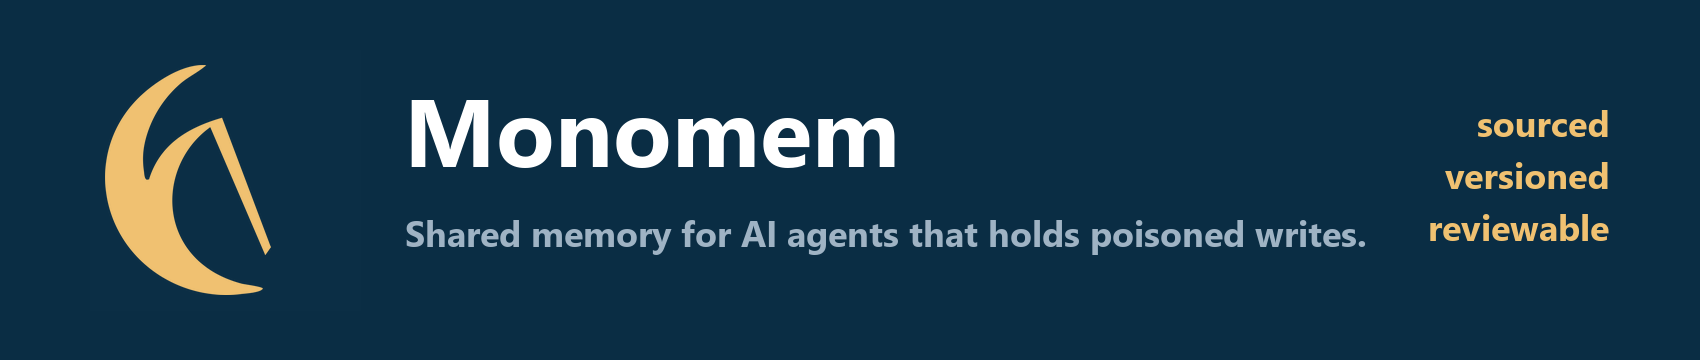
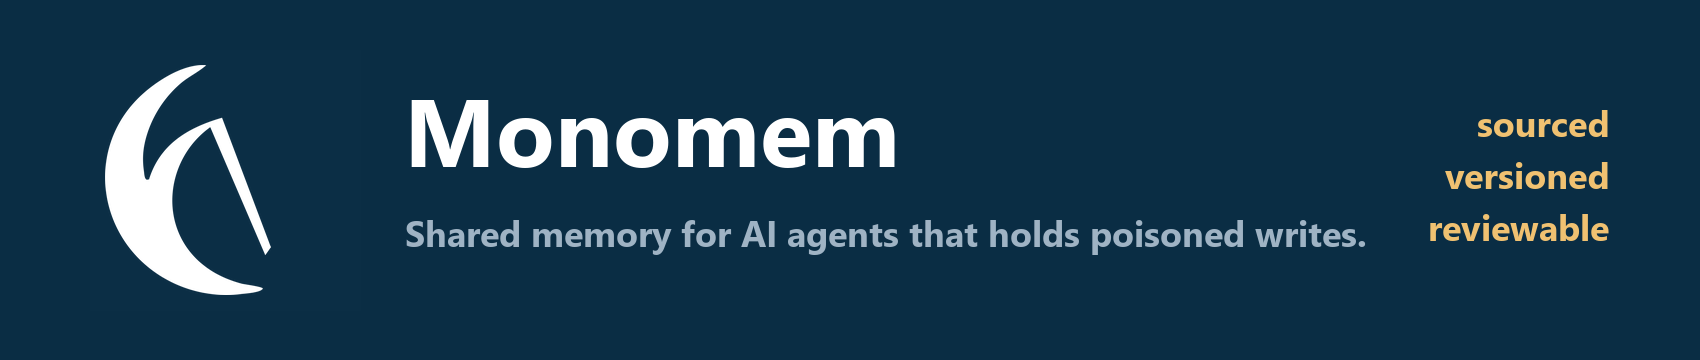
fix(brand): Calas mark in white on dark backgrounds, per the brand SOP

Changed region(s): [[0.0624, 0.1833, 0.1559, 0.825]]

diff --git a/src/dashboard.ts b/src/dashboard.ts
@@ -750,6 +750,6 @@ if(tok()){ show(true); load(); } else { show(false); $("tok").focus(); }
 
 // The brand mark (docs/brand/mark-gold-48.png), served at GET /favicon.ico without a token.
 export const FAVICON_PNG = Buffer.from(
[2 lines of base64/hex data omitted]
   "base64",
 );

diff --git a/scripts/stamp-calas-mark.py b/scripts/stamp-calas-mark.py
@@ -1,7 +1,7 @@
 """Stamp the real Calas mark (calas-vault Brand/dc-logo, crescent WITH its diagonal stroke) onto the Monomem brand images.
 
 The stroke is part of the logo, not an artifact. This replaces whatever mark is in each image with the official one,
-recoloured to brand gold, on the brand navy. Run with a Python that has Pillow:
+recoloured white (the official mark on dark), on the brand navy. Run with a Python that has Pillow:
   ~/tools/motion-venv/Scripts/python.exe scripts/stamp-calas-mark.py <path to dc-logo-2048.png>
 """
 import sys
@@ -9,7 +9,7 @@ from pathlib import Path
 from PIL import Image, ImageDraw
 
 NAVY = (11, 46, 69)
-GOLD = (240, 193, 113)
+GOLD = (255, 255, 255)  # the official mark on a dark background is white (calas-vault SOP/Brand.md)
 ROOT = Path(__file__).resolve().parent.parent
 
 # image, box to clear (x0, y0, x1, y1), mark height, top-left of the mark
